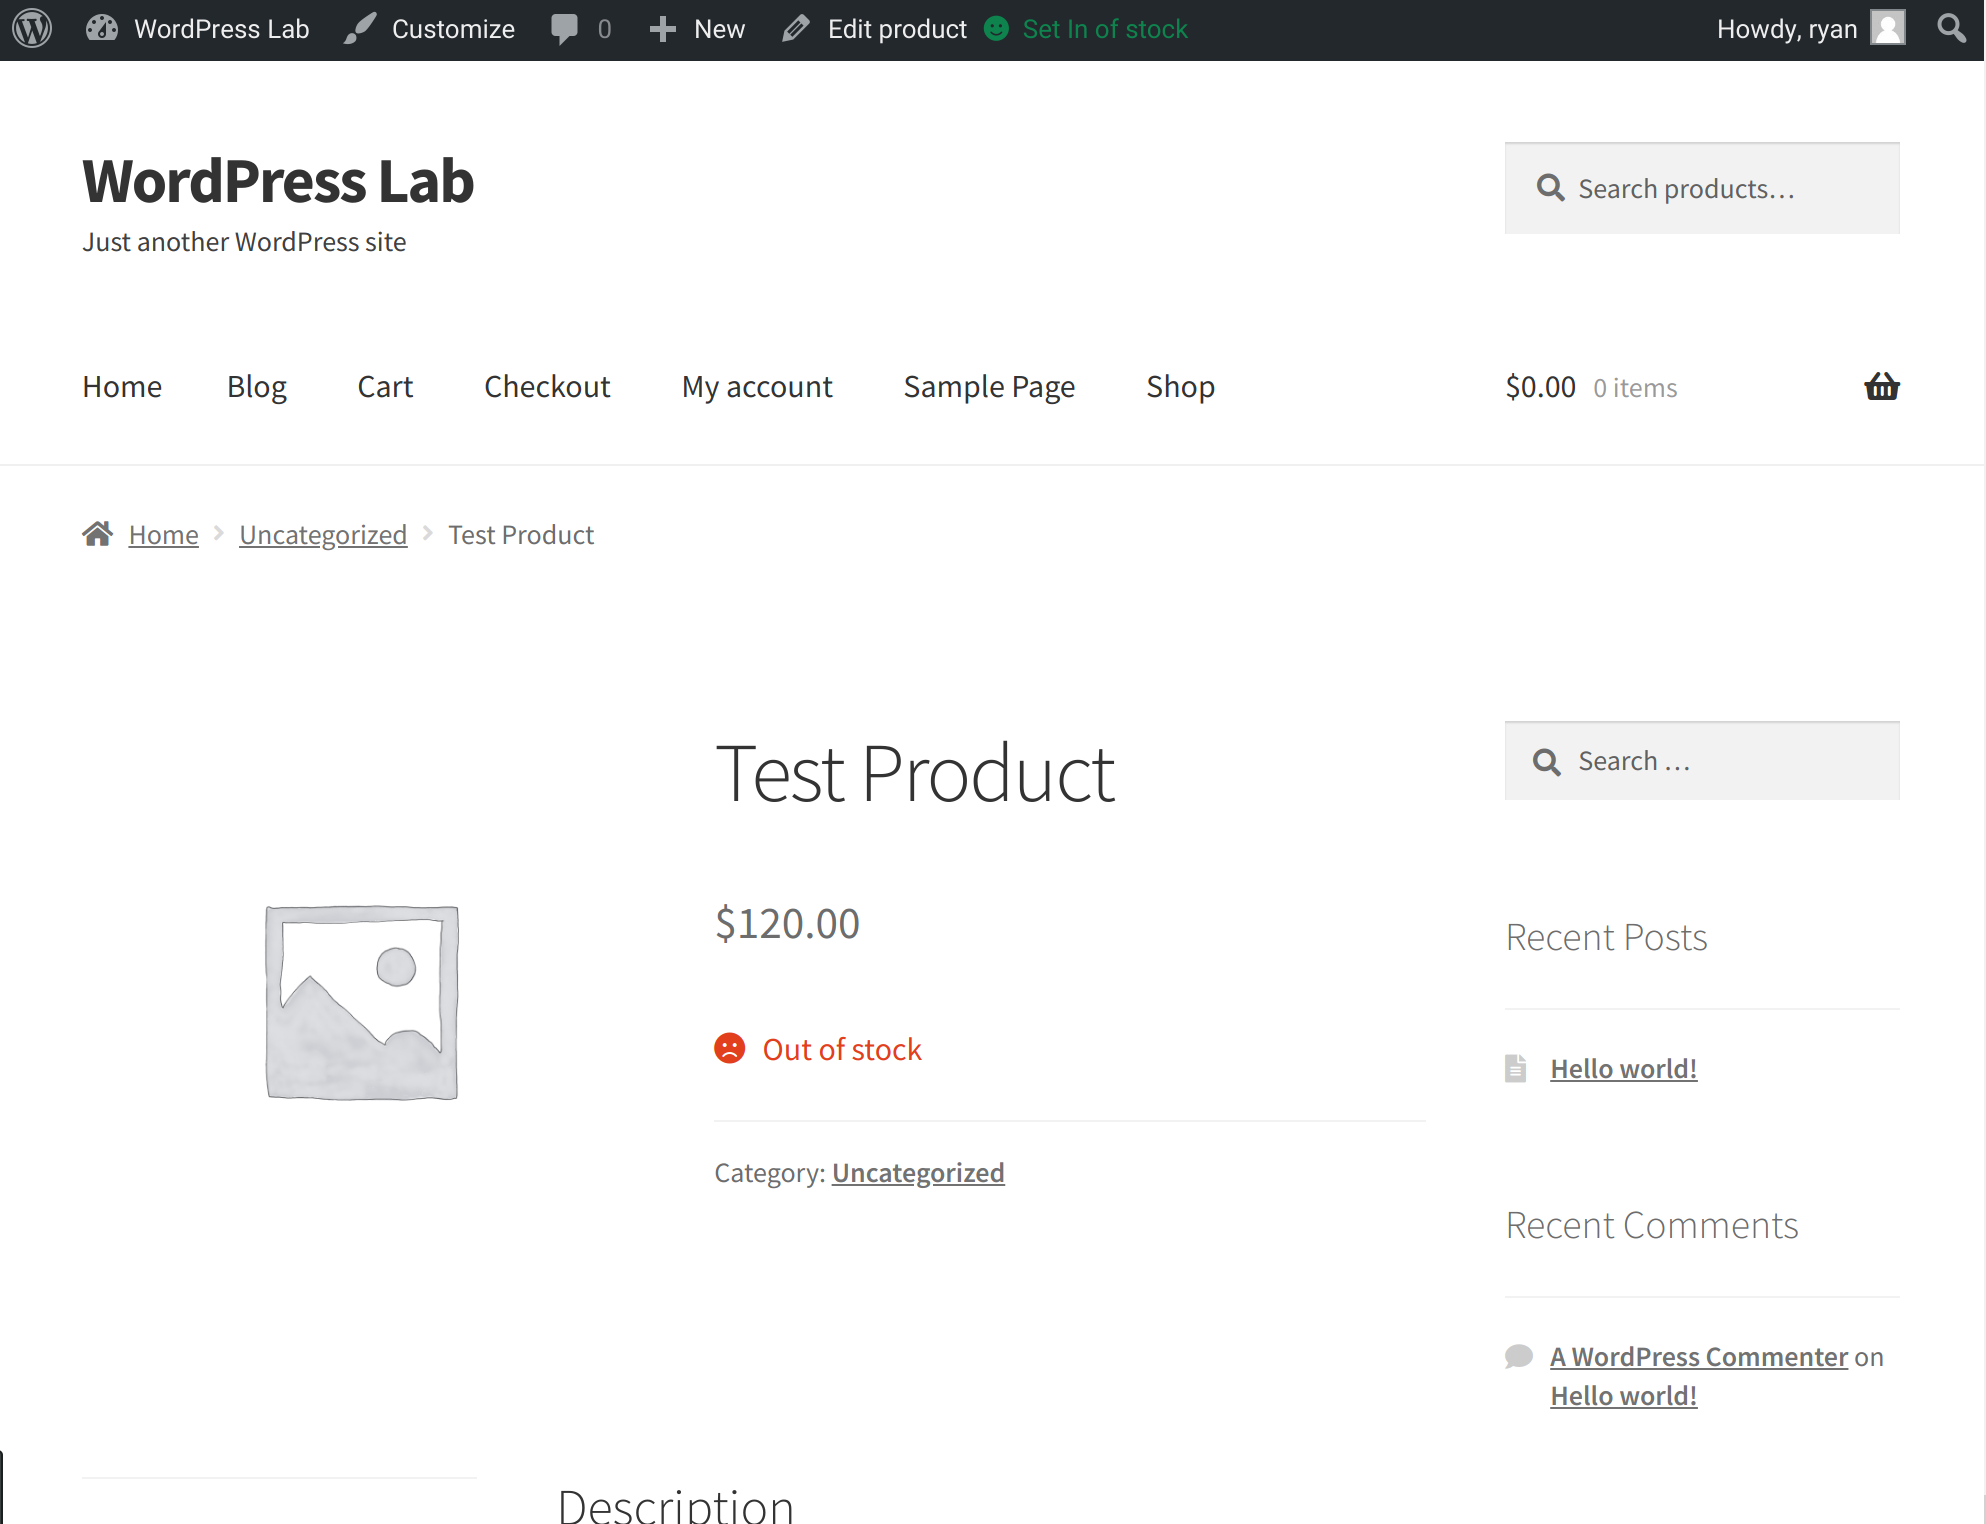
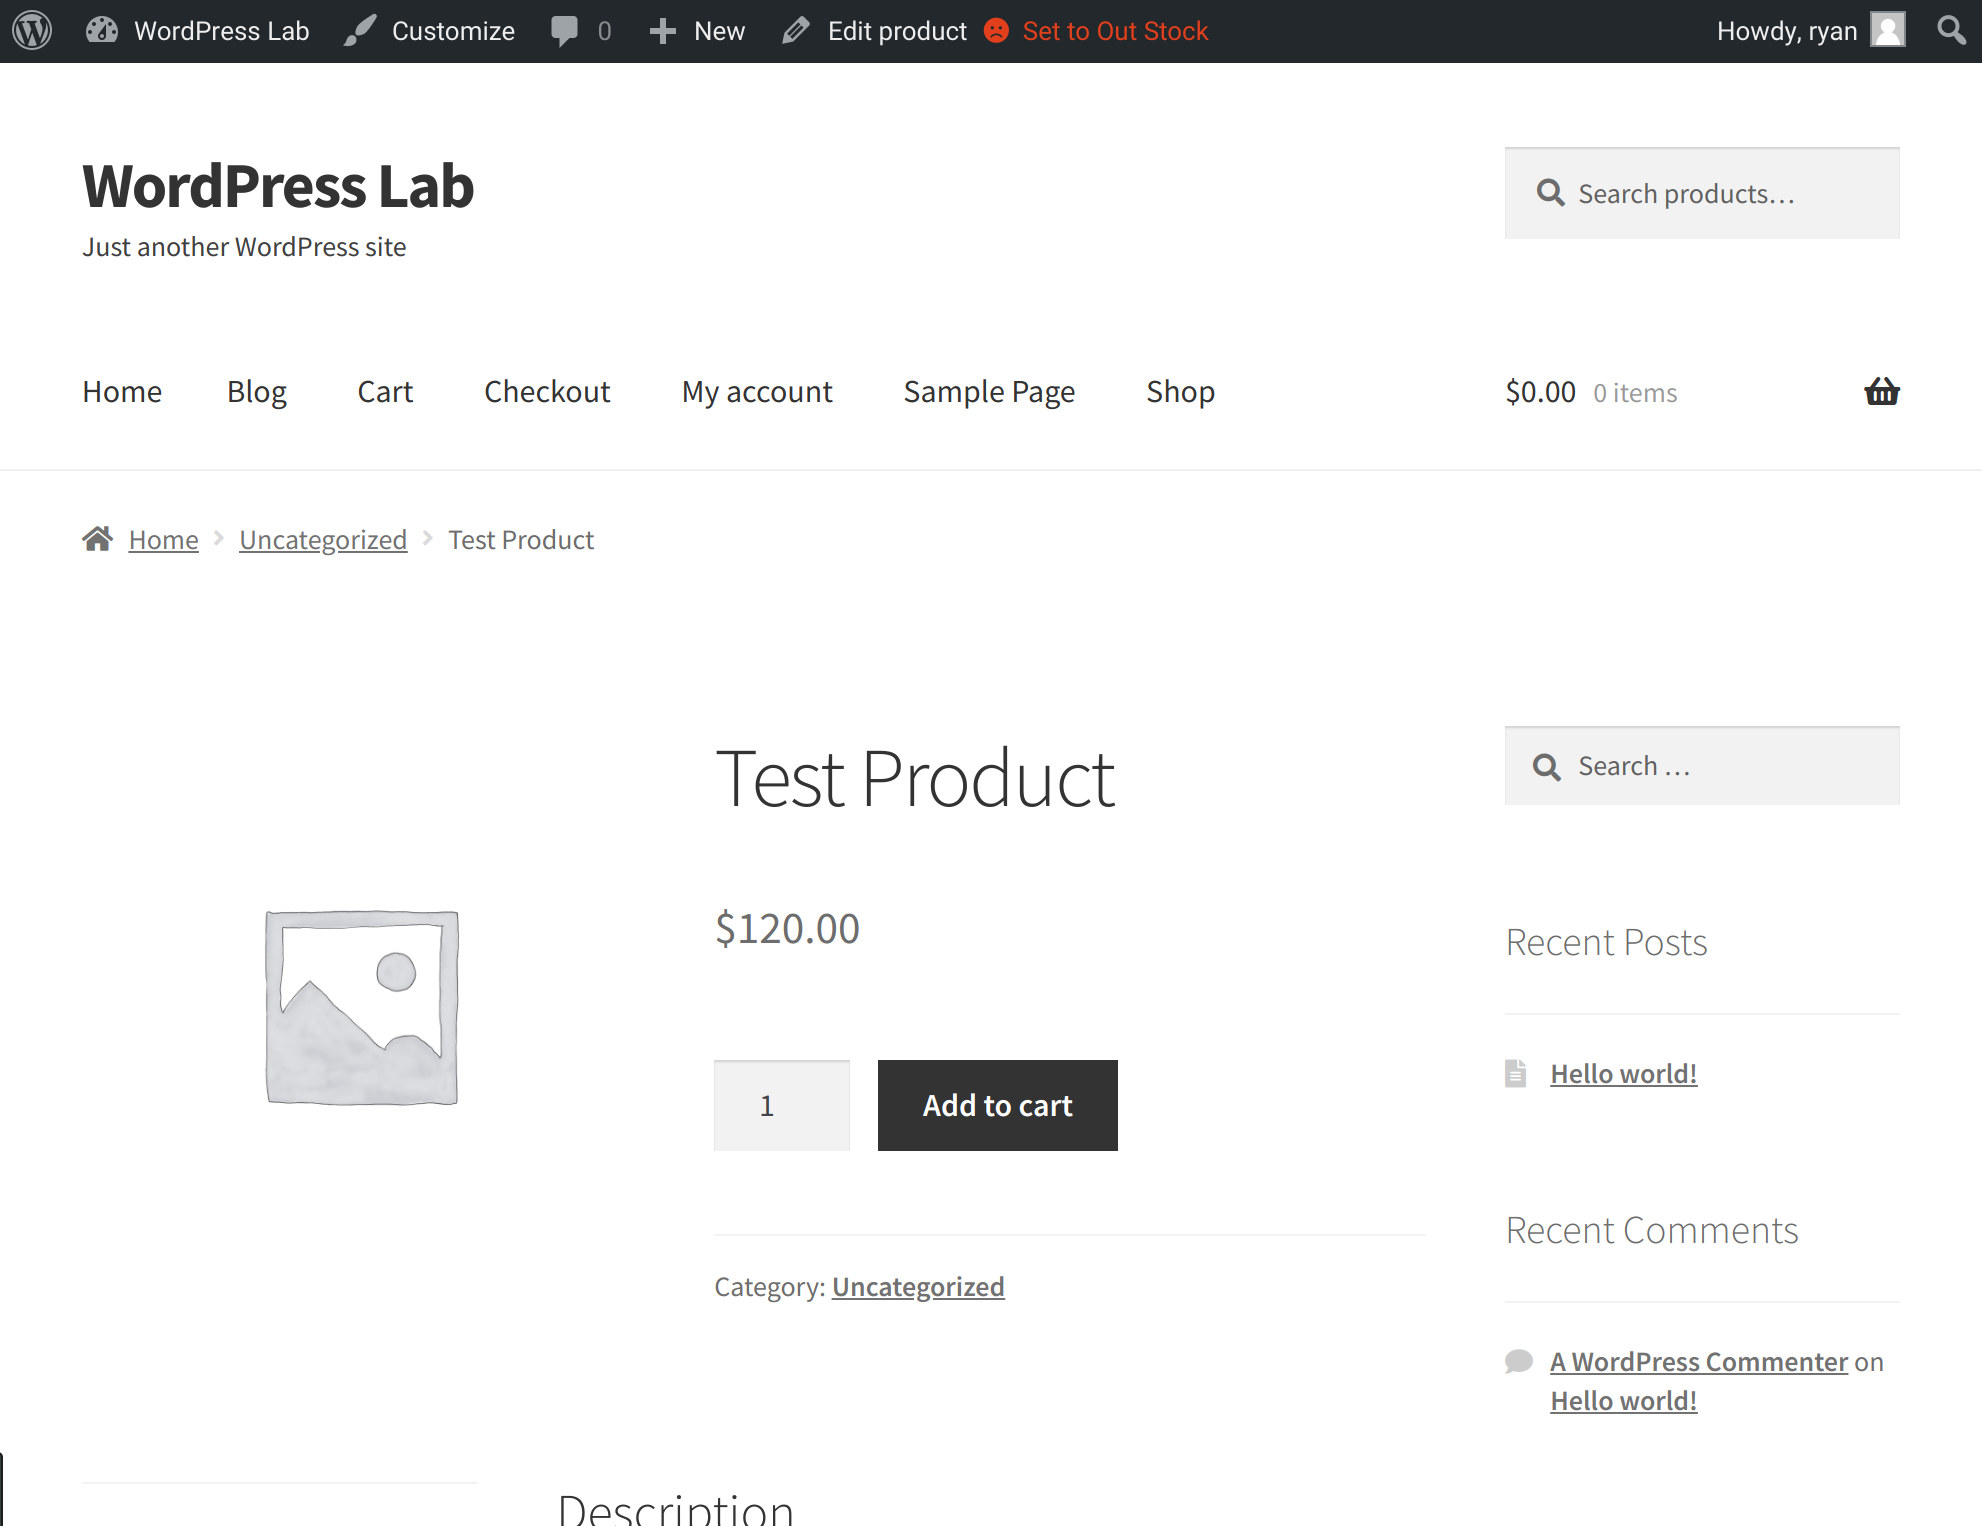
Update screenshots without typo ;)

diff --git a/toggle-stock.php b/toggle-stock.php
@@ -98,10 +98,10 @@ function toggle_product_stock_link( $wp_admin_bar ) {
     $pid = $product->get_id();
 
     if($product->is_in_stock()) {
-        $button_html = "<p id='tsock_seed' class='stock out-of-stock' style='margin-top:-32px; cursor:pointer;' data-pid='$pid'>Set In Stock</p>";
+        $button_html = "<p id='tsock_seed' class='stock out-of-stock' style='margin-top:-32px; cursor:pointer;' data-pid='$pid'>Set to Out Stock</p>";
     }
     else {
-        $button_html = "<p id='tsock_seed' class='stock in-stock' style='margin-top:-32px; cursor:pointer;' data-pid='$pid'>Set Out Of Stock</p>";
+        $button_html = "<p id='tsock_seed' class='stock in-stock' style='margin-top:-32px; cursor:pointer;' data-pid='$pid'>Set to In Stock</p>";
     }
 
     $wp_admin_bar->add_node( array('id' => 'toggle_product_stock', 'meta'  => array('html'  => $button_html) ));
